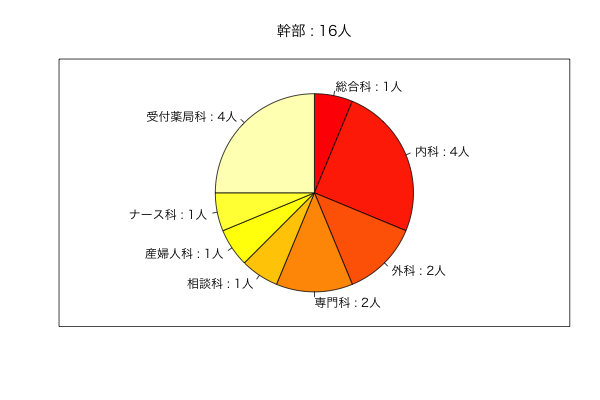
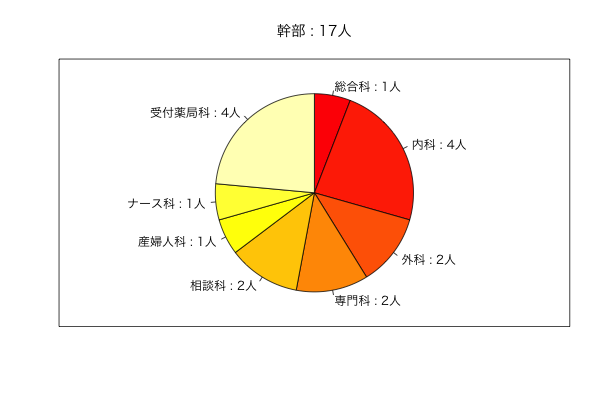
修正

diff --git a/ReadMe.md b/ReadMe.md
@@ -32,6 +32,7 @@
 |部長|内科|まあ||
 |部長|内科|みなみん||
 |部長|外科|ノッチィ||
+|部長|相談科|れい||
 |部長|産婦人科|宇佐||
 |部長|ナース科|さきりん||
 |部長|受付薬局科|かのん||
@@ -40,7 +41,6 @@
 |主任|内科|ルミカ||
 |主任|相談科|かお||
 |主任|相談科|みさき||
-|主任|相談科|れい||
 |主任|受付薬局科|りな||
 
 ### 人数
@@ -53,8 +53,8 @@
 |副医院長補佐|0|0|0|1|0|0|0|0|1|
 |医局長|0|0|1|0|0|0|0|0|1|
 |事務局長|0|0|0|0|0|0|0|0|0|
-|部長|0|4|1|0|0|1|1|2|9|
-|主任|0|2|0|0|3|0|0|1|6|
+|部長|0|4|1|0|1|1|1|2|10|
+|主任|0|2|0|0|2|0|0|1|5|
 |合計|1|6|2|3|4|1|1|5|23|
 
 <img src="https://github.com/fairy00000/organization/blob/master/image/Member.png">
